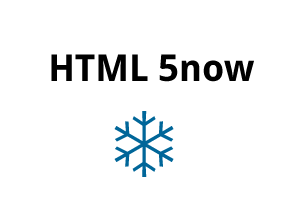
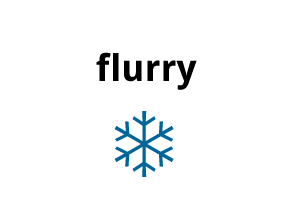
mc

Changed region(s): [[0.1531, 0.2192, 0.8878, 0.411]]

diff --git a/css/layout.css b/css/layout.css
@@ -1,5 +1,3 @@
-
-
 hr {
   display: none;
 }
@@ -21,26 +19,26 @@ hr {
   width: 100%;
   margin-left: 0; /* LTR */
   margin-right: -100%; /* LTR */ /* Negative value of #content's width + left margin. */
-  padding: 0; /* DO NOT CHANGE. Add padding or margin to #content .section. */
+  padding: 0; /* DO NOT CHANGE. Add padding or margin to #content .liner. */
 }
 
-#content .section,
-.no-sidebars #content .section {
+#content .liner,
+.no-sidebars #content .liner {
   margin: 0;
   padding: 0;
 }
 
-.sidebar-first #content .section {
+.sidebar-first #content .liner {
   padding-left: 200px; /* LTR */ /* The width + left margin of .region-sidebar-first. */
   padding-right: 0; /* LTR */
 }
 
-.sidebar-second #content .section {
+.sidebar-second #content .liner {
   padding-left: 0; /* LTR */
   padding-right: 200px; /* LTR */ /* The width + right margin of .region-sidebar-second. */
 }
 
-.two-sidebars #content .section {
+.two-sidebars #content .liner {
   padding-left: 200px; /* The width + left margin of .region-sidebar-first. */
   padding-right: 200px; /* The width + right margin of .region-sidebar-second. */
 }
@@ -65,10 +63,10 @@ hr {
   width: 200px;
   margin-left: 0; /* LTR */
   margin-right: -200px; /* LTR */ /* Negative value of .region-sidebar-first's width + left margin. */
-  padding: 0; /* DO NOT CHANGE. Add padding or margin to .region-sidebar-first .section. */
+  padding: 0; /* DO NOT CHANGE. Add padding or margin to .region-sidebar-first .liner. */
 }
 
-.region-sidebar-first .section {
+.region-sidebar-first .liner {
   margin: 0 20px 0 0; /* LTR */
   padding: 0;
 }
@@ -81,10 +79,10 @@ hr {
   width: 200px;
   margin-left: -200px; /* LTR */ /* Negative value of .region-sidebar-second's width + right margin. */
   margin-right: 0; /* LTR */
-  padding: 0; /* DO NOT CHANGE. Add padding or margin to .region-sidebar-second .section. */
+  padding: 0; /* DO NOT CHANGE. Add padding or margin to .region-sidebar-second .liner. */
 }
 
-.region-sidebar-second .section {
+.region-sidebar-second .liner {
   margin: 0 0 0 20px; /* LTR */
   padding: 0;
 }
@@ -95,7 +93,7 @@ hr {
 #footer {
 }
 
-#footer .section {
+#footer .liner {
 }
 
 /*

diff --git a/template.php b/template.php
@@ -1,14 +1,14 @@
 <?php
 /**
  * @file
- * Contains theme override functions and preprocess functions for the html5now theme.
+ * Contains theme override functions and preprocess functions for the flurry theme.
  */
 
 
 /**
  * Add body classes if certain regions have content.
  */
-function html5now_preprocess_page(&$variables) {
+function flurry_preprocess_page(&$variables) {
   
   // build main menu
   $navigation_attributes = array(
@@ -35,13 +35,13 @@ function html5now_preprocess_page(&$variables) {
  * Implements hook_html_head_alter().
  * We are overwriting the default meta character type tag with HTML5 version.
  */
-function html5now_html_head_alter(&$head_elements) {
+function flurry_html_head_alter(&$head_elements) {
   $head_elements['system_meta_content_type']['#attributes'] = array(
     'charset' => 'utf-8'
   );
   
   // Always force latest IE rendering engine (even in intranet) & Chrome Frame
-  $head_elements['html5now_meta_http_equiv'] = array(
+  $head_elements['flurry_meta_http_equiv'] = array(
     '#type' => 'html_tag',
     '#tag' => 'meta',
     '#attributes' => array(
@@ -52,7 +52,7 @@ function html5now_html_head_alter(&$head_elements) {
   );
 
   // Mobile viewport optimized: j.mp/bplateviewport
-  $head_elements['html5now_meta_viewport'] = array(
+  $head_elements['flurry_meta_viewport'] = array(
     '#type' => 'html_tag',
     '#tag' => 'meta',
     '#attributes' => array(
@@ -65,11 +65,11 @@ function html5now_html_head_alter(&$head_elements) {
   // Apple Touch Icon
   
   $apple_touch_icon_path = './' . drupal_get_path('theme', $GLOBALS['theme']) . '/apple-touch-icon.png';
-  $html5now_apple_touch_icon_path = './' . drupal_get_path('theme', 'html5now') . '/apple-touch-icon.png';
+  $flurry_apple_touch_icon_path = './' . drupal_get_path('theme', 'flurry') . '/apple-touch-icon.png';
   
   $apple_touch_icon = (file_exists($apple_touch_icon_path)) 
     ? $apple_touch_icon_path 
-    : $html5now_apple_touch_icon_path ;
+    : $flurry_apple_touch_icon_path ;
   
   $head_elements['apple_touch_icon'] = array(
     '#type' => 'html_tag',
@@ -87,6 +87,6 @@ function html5now_html_head_alter(&$head_elements) {
 /**
  * Changes the search form to use the "search" input element of HTML5.
  */
-function html5now_preprocess_search_block_form(&$vars) {
+function flurry_preprocess_search_block_form(&$vars) {
   $vars['search_form'] = str_replace('type="text"', 'type="search"', $vars['search_form']);
 }

diff --git a/templates/page.tpl.php b/templates/page.tpl.php
@@ -84,15 +84,19 @@
 
     <?php if ($site_name || $site_slogan): ?>
         <?php if ($site_name): ?>
+          <div class="site-name">
           <?php if ($title): ?>
-            <div class="site-name"><strong>
-              <a href="<?php print $front_page; ?>" title="<?php print t('Home'); ?>" rel="home"><span><?php print $site_name; ?></span></a>
-            </strong></div>
+            <strong>
           <?php else: /* Use h1 when the content title is empty */ ?>
             <h1>
+          <?php endif; ?>
               <a href="<?php print $front_page; ?>" title="<?php print t('Home'); ?>" rel="home"><span><?php print $site_name; ?></span></a>
+          <?php if ($title): ?>
+            </strong>
+          <?php else: /* Use h1 when the content title is empty */ ?>
             </h1>
           <?php endif; ?>
+          </div><!-- /.site-name -->
         <?php endif; ?>
 
         <?php if ($site_slogan): ?>
